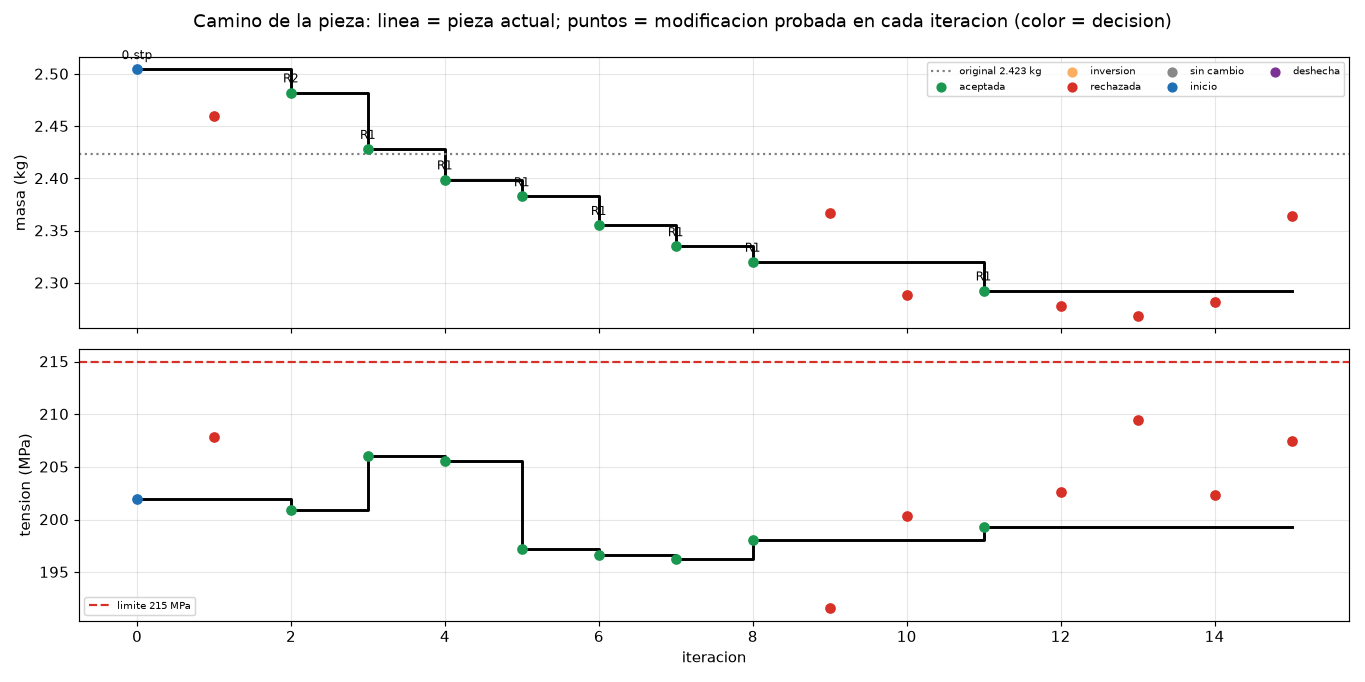
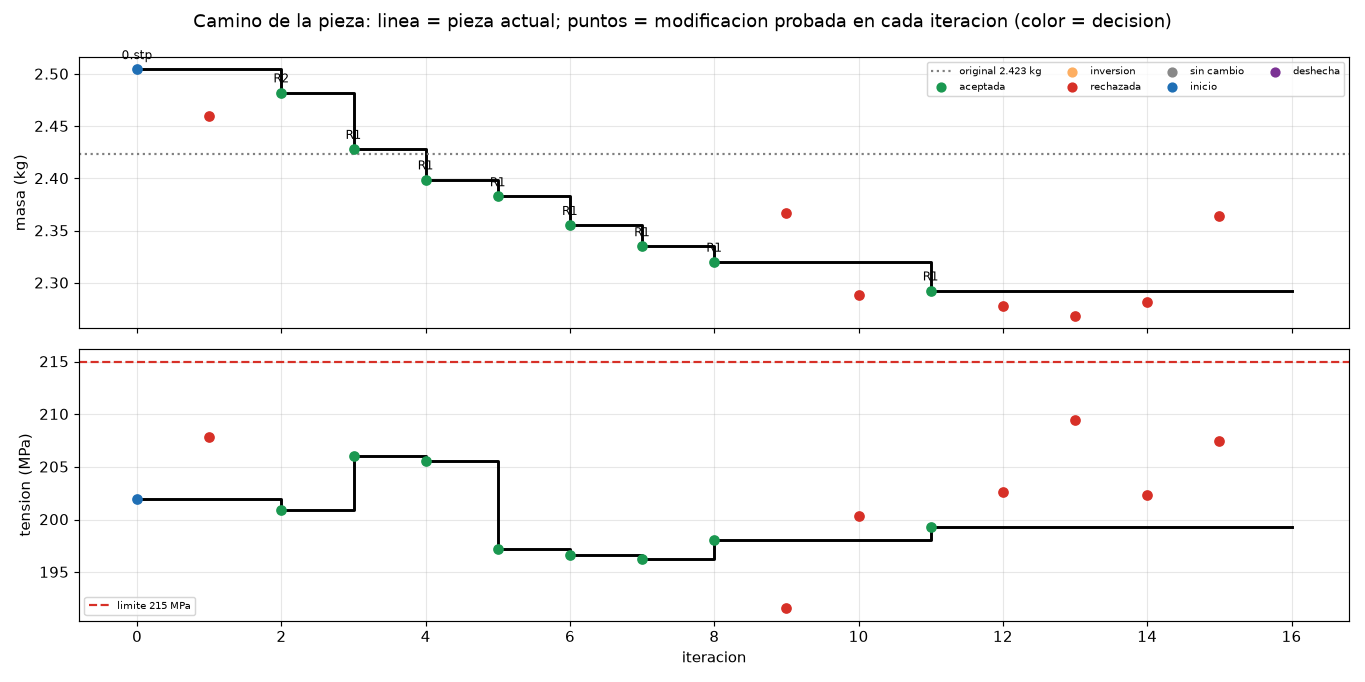
Iteracion 16 [SIN CAMBIO]
Decision: ninguna regla encuentra ya una modificacion posible (no queda material ocioso donde quepa un corte y el pico no admite refuerzo)

diff --git a/runs/opt_42258N/evolucion_interactiva.html b/runs/opt_42258N/evolucion_interactiva.html
@@ -6,6 +6,6 @@
 </head>
 <body>
     <div style="height:800px; width:100%;">                        <script>window.PlotlyConfig = {MathJaxConfig: 'local'};</script>
-        <script charset="utf-8" src="https://cdn.plot.ly/plotly-4.1.1.min.js" integrity="sha256-O24V1F27f8pb0glCkelh3cVHLNiHAJ5gCaVtq2aNch8=" crossorigin="anonymous"></script>                <div id="f991e6a4-b36d-4992-b114-49e5bb6e1498" class="plotly-graph-div" style="height:100%; width:100%;"></div>            <script>                window.PLOTLYENV=window.PLOTLYENV || {};                                if (document.getElementById("f991e6a4-b36d-4992-b114-49e5bb6e1498")) {                    Plotly.newPlot(                        "f991e6a4-b36d-4992-b114-49e5bb6e1498",                        [{"hoverinfo":"text","marker":{"color":"green","size":10},"mode":"markers","name":"aceptada","text":["\u003cb\u003eiteracion 2: ACEPTADA\u003c\u002fb\u003e\u003cbr\u003eR2 rebaje desde arriba hasta z = 9 mm en x 42..62, y -80..-68 mm (esquinas R3) (y su simetrico)\u003cbr\u003emasa 2.4822 kg\u003cbr\u003etension 200.9 MPa\u003cbr\u003ecumple y mejora al mejor (puntuacion 2.5044 -\u003e 2.4822; masa 2.5044 -\u003e 2.4822 kg)","\u003cb\u003eiteracion 3: ACEPTADA\u003c\u002fb\u003e\u003cbr\u003eR1 aligeramiento pasante vertical D16 mm en (49, -56) (y su simetrico)\u003cbr\u003emasa 2.4281 kg\u003cbr\u003etension 206.0 MPa\u003cbr\u003ecumple y mejora al mejor (puntuacion 2.4822 -\u003e 2.4281; masa 2.4822 -\u003e 2.4281 kg)","\u003cb\u003eiteracion 4: ACEPTADA\u003c\u002fb\u003e\u003cbr\u003eR1 aligeramiento pasante vertical D12 mm en (4, -74) (y su simetrico)\u003cbr\u003emasa 2.3989 kg\u003cbr\u003etension 205.6 MPa\u003cbr\u003ecumple y mejora al mejor (puntuacion 2.4281 -\u003e 2.3989; masa 2.4281 -\u003e 2.3989 kg)","\u003cb\u003eiteracion 5: ACEPTADA\u003c\u002fb\u003e\u003cbr\u003eR1 aligeramiento pasante vertical D16 mm en (64, -32) (y su simetrico)\u003cbr\u003emasa 2.3827 kg\u003cbr\u003etension 197.2 MPa\u003cbr\u003ecumple y mejora al mejor (puntuacion 2.3989 -\u003e 2.3827; masa 2.3989 -\u003e 2.3827 kg)","\u003cb\u003eiteracion 6: ACEPTADA\u003c\u002fb\u003e\u003cbr\u003eR1 aligeramiento pasante vertical D16 mm en (-26, -29) (y su simetrico)\u003cbr\u003emasa 2.3552 kg\u003cbr\u003etension 196.6 MPa\u003cbr\u003ecumple y mejora al mejor (puntuacion 2.3827 -\u003e 2.3552; masa 2.3827 -\u003e 2.3552 kg)","\u003cb\u003eiteracion 7: ACEPTADA\u003c\u002fb\u003e\u003cbr\u003eR1 aligeramiento pasante vertical D10 mm en (28, -74) (y su simetrico)\u003cbr\u003emasa 2.3349 kg\u003cbr\u003etension 196.2 MPa\u003cbr\u003ecumple y mejora al mejor (puntuacion 2.3552 -\u003e 2.3349; masa 2.3552 -\u003e 2.3349 kg)","\u003cb\u003eiteracion 8: ACEPTADA\u003c\u002fb\u003e\u003cbr\u003eR1 aligeramiento pasante vertical D10 mm en (19, -74) (y su simetrico)\u003cbr\u003emasa 2.3201 kg\u003cbr\u003etension 198.0 MPa\u003cbr\u003ecumple y mejora al mejor (puntuacion 2.3349 -\u003e 2.3201; masa 2.3349 -\u003e 2.3201 kg)","\u003cb\u003eiteracion 11: ACEPTADA\u003c\u002fb\u003e\u003cbr\u003eR1 aligeramiento pasante vertical D8 mm en (43, -44) (y su simetrico)\u003cbr\u003emasa 2.2925 kg\u003cbr\u003etension 199.3 MPa\u003cbr\u003ecumple y mejora al mejor (puntuacion 2.3201 -\u003e 2.2925; masa 2.3201 -\u003e 2.2925 kg)"],"x":[2,3,4,5,6,7,8,11],"y":[2.4822082530500005,2.42810233215,2.3988696936,2.3827442393000005,2.3552425257500005,2.3348910239500005,2.3200603329500002,2.2925156956000006],"type":"scatter","xaxis":"x","yaxis":"y"},{"hoverinfo":"text","marker":{"color":"green","size":10},"mode":"markers","showlegend":false,"text":["\u003cb\u003eiteracion 2: ACEPTADA\u003c\u002fb\u003e\u003cbr\u003eR2 rebaje desde arriba hasta z = 9 mm en x 42..62, y -80..-68 mm (esquinas R3) (y su simetrico)\u003cbr\u003emasa 2.4822 kg\u003cbr\u003etension 200.9 MPa\u003cbr\u003ecumple y mejora al mejor (puntuacion 2.5044 -\u003e 2.4822; masa 2.5044 -\u003e 2.4822 kg)","\u003cb\u003eiteracion 3: ACEPTADA\u003c\u002fb\u003e\u003cbr\u003eR1 aligeramiento pasante vertical D16 mm en (49, -56) (y su simetrico)\u003cbr\u003emasa 2.4281 kg\u003cbr\u003etension 206.0 MPa\u003cbr\u003ecumple y mejora al mejor (puntuacion 2.4822 -\u003e 2.4281; masa 2.4822 -\u003e 2.4281 kg)","\u003cb\u003eiteracion 4: ACEPTADA\u003c\u002fb\u003e\u003cbr\u003eR1 aligeramiento pasante vertical D12 mm en (4, -74) (y su simetrico)\u003cbr\u003emasa 2.3989 kg\u003cbr\u003etension 205.6 MPa\u003cbr\u003ecumple y mejora al mejor (puntuacion 2.4281 -\u003e 2.3989; masa 2.4281 -\u003e 2.3989 kg)","\u003cb\u003eiteracion 5: ACEPTADA\u003c\u002fb\u003e\u003cbr\u003eR1 aligeramiento pasante vertical D16 mm en (64, -32) (y su simetrico)\u003cbr\u003emasa 2.3827 kg\u003cbr\u003etension 197.2 MPa\u003cbr\u003ecumple y mejora al mejor (puntuacion 2.3989 -\u003e 2.3827; masa 2.3989 -\u003e 2.3827 kg)","\u003cb\u003eiteracion 6: ACEPTADA\u003c\u002fb\u003e\u003cbr\u003eR1 aligeramiento pasante vertical D16 mm en (-26, -29) (y su simetrico)\u003cbr\u003emasa 2.3552 kg\u003cbr\u003etension 196.6 MPa\u003cbr\u003ecumple y mejora al mejor (puntuacion 2.3827 -\u003e 2.3552; masa 2.3827 -\u003e 2.3552 kg)","\u003cb\u003eiteracion 7: ACEPTADA\u003c\u002fb\u003e\u003cbr\u003eR1 aligeramiento pasante vertical D10 mm en (28, -74) (y su simetrico)\u003cbr\u003emasa 2.3349 kg\u003cbr\u003etension 196.2 MPa\u003cbr\u003ecumple y mejora al mejor (puntuacion 2.3552 -\u003e 2.3349; masa 2.3552 -\u003e 2.3349 kg)","\u003cb\u003eiteracion 8: ACEPTADA\u003c\u002fb\u003e\u003cbr\u003eR1 aligeramiento pasante vertical D10 mm en (19, -74) (y su simetrico)\u003cbr\u003emasa 2.3201 kg\u003cbr\u003etension 198.0 MPa\u003cbr\u003ecumple y mejora al mejor (puntuacion 2.3349 -\u003e 2.3201; masa 2.3349 -\u003e 2.3201 kg)","\u003cb\u003eiteracion 11: ACEPTADA\u003c\u002fb\u003e\u003cbr\u003eR1 aligeramiento pasante vertical D8 mm en (43, -44) (y su simetrico)\u003cbr\u003emasa 2.2925 kg\u003cbr\u003etension 199.3 MPa\u003cbr\u003ecumple y mejora al mejor (puntuacion 2.3201 -\u003e 2.2925; masa 2.3201 -\u003e 2.2925 kg)"],"x":[2,3,4,5,6,7,8,11],"y":[200.9276,206.0175,205.5841,197.1883,196.6129,196.215,198.0244,199.3109],"type":"scatter","xaxis":"x2","yaxis":"y2"},{"hoverinfo":"text","marker":{"color":"red","size":10},"mode":"markers","name":"rechazada","text":["\u003cb\u003eiteracion 1: RECHAZADA\u003c\u002fb\u003e\u003cbr\u003eR1 aligeramiento pasante vertical D12 mm en (40, -71) (y su simetrico)\u003cbr\u003emasa 2.4599 kg\u003cbr\u003etension 207.8 MPa\u003cbr\u003eno cumple: 207.8 MPa con la malla normal, que corregidos a malla fina (x1.041) son 216.3 MPa \u003e 215 MPa","\u003cb\u003eiteracion 9: RECHAZADA\u003c\u002fb\u003e\u003cbr\u003eR4 collar de 8 mm en los pernos 3 y 1\u003cbr\u003emasa 2.3665 kg\u003cbr\u003etension 191.6 MPa\u003cbr\u003ecumple pero no mejora al mejor (puntuacion 2.3665 frente a 2.3201)","\u003cb\u003eiteracion 10: RECHAZADA\u003c\u002fb\u003e\u003cbr\u003eR1 aligeramiento pasante vertical D8 mm en (37, -83) (y su simetrico)\u003cbr\u003emasa 2.2879 kg\u003cbr\u003etension 200.3 MPa\u003cbr\u003eno cumple: 200.3 MPa con la malla normal, que corregidos a malla fina (x1.077) son 215.7 MPa \u003e 215 MPa","\u003cb\u003eiteracion 12: RECHAZADA\u003c\u002fb\u003e\u003cbr\u003eR1 aligeramiento pasante vertical D12 mm en (-5, -74) (y su simetrico)\u003cbr\u003emasa 2.2777 kg\u003cbr\u003etension 202.6 MPa\u003cbr\u003eno cumple: 202.6 MPa con la malla normal, que corregidos a malla fina (x1.077) son 218.1 MPa \u003e 215 MPa","\u003cb\u003eiteracion 13: RECHAZADA\u003c\u002fb\u003e\u003cbr\u003eR1 aligeramiento pasante vertical D8 mm en (40, -59) (y su simetrico)\u003cbr\u003emasa 2.2682 kg\u003cbr\u003etension 209.4 MPa\u003cbr\u003eno cumple: 209.4 MPa con la malla normal, que corregidos a malla fina (x1.077) son 225.5 MPa \u003e 215 MPa","\u003cb\u003eiteracion 14: RECHAZADA\u003c\u002fb\u003e\u003cbr\u003eR3 hueco interior 12 x 20 x 8 mm (techo a 45 grados + evacuacion D5) en (12, -42) (y su simetrico)\u003cbr\u003emasa 2.2818 kg\u003cbr\u003etension 202.3 MPa\u003cbr\u003eno cumple: 202.3 MPa con la malla normal, que corregidos a malla fina (x1.077) son 217.9 MPa \u003e 215 MPa","\u003cb\u003eiteracion 15: RECHAZADA\u003c\u002fb\u003e\u003cbr\u003eR4 collar de 9 mm en los pernos 3 y 1\u003cbr\u003emasa 2.3640 kg\u003cbr\u003etension 207.4 MPa\u003cbr\u003eno cumple: 207.4 MPa con la malla normal, que corregidos a malla fina (x1.077) son 223.4 MPa \u003e 215 MPa"],"x":[1,9,10,12,13,14,15],"y":[2.45994150825,2.3664543903000004,2.2879062384,2.2777152820500004,2.2682079351,2.2818148424999998,2.3640136447500004],"type":"scatter","xaxis":"x","yaxis":"y"},{"hoverinfo":"text","marker":{"color":"red","size":10},"mode":"markers","showlegend":false,"text":["\u003cb\u003eiteracion 1: RECHAZADA\u003c\u002fb\u003e\u003cbr\u003eR1 aligeramiento pasante vertical D12 mm en (40, -71) (y su simetrico)\u003cbr\u003emasa 2.4599 kg\u003cbr\u003etension 207.8 MPa\u003cbr\u003eno cumple: 207.8 MPa con la malla normal, que corregidos a malla fina (x1.041) son 216.3 MPa \u003e 215 MPa","\u003cb\u003eiteracion 9: RECHAZADA\u003c\u002fb\u003e\u003cbr\u003eR4 collar de 8 mm en los pernos 3 y 1\u003cbr\u003emasa 2.3665 kg\u003cbr\u003etension 191.6 MPa\u003cbr\u003ecumple pero no mejora al mejor (puntuacion 2.3665 frente a 2.3201)","\u003cb\u003eiteracion 10: RECHAZADA\u003c\u002fb\u003e\u003cbr\u003eR1 aligeramiento pasante vertical D8 mm en (37, -83) (y su simetrico)\u003cbr\u003emasa 2.2879 kg\u003cbr\u003etension 200.3 MPa\u003cbr\u003eno cumple: 200.3 MPa con la malla normal, que corregidos a malla fina (x1.077) son 215.7 MPa \u003e 215 MPa","\u003cb\u003eiteracion 12: RECHAZADA\u003c\u002fb\u003e\u003cbr\u003eR1 aligeramiento pasante vertical D12 mm en (-5, -74) (y su simetrico)\u003cbr\u003emasa 2.2777 kg\u003cbr\u003etension 202.6 MPa\u003cbr\u003eno cumple: 202.6 MPa con la malla normal, que corregidos a malla fina (x1.077) son 218.1 MPa \u003e 215 MPa","\u003cb\u003eiteracion 13: RECHAZADA\u003c\u002fb\u003e\u003cbr\u003eR1 aligeramiento pasante vertical D8 mm en (40, -59) (y su simetrico)\u003cbr\u003emasa 2.2682 kg\u003cbr\u003etension 209.4 MPa\u003cbr\u003eno cumple: 209.4 MPa con la malla normal, que corregidos a malla fina (x1.077) son 225.5 MPa \u003e 215 MPa","\u003cb\u003eiteracion 14: RECHAZADA\u003c\u002fb\u003e\u003cbr\u003eR3 hueco interior 12 x 20 x 8 mm (techo a 45 grados + evacuacion D5) en (12, -42) (y su simetrico)\u003cbr\u003emasa 2.2818 kg\u003cbr\u003etension 202.3 MPa\u003cbr\u003eno cumple: 202.3 MPa con la malla normal, que corregidos a malla fina (x1.077) son 217.9 MPa \u003e 215 MPa","\u003cb\u003eiteracion 15: RECHAZADA\u003c\u002fb\u003e\u003cbr\u003eR4 collar de 9 mm en los pernos 3 y 1\u003cbr\u003emasa 2.3640 kg\u003cbr\u003etension 207.4 MPa\u003cbr\u003eno cumple: 207.4 MPa con la malla normal, que corregidos a malla fina (x1.077) son 223.4 MPa \u003e 215 MPa"],"x":[1,9,10,12,13,14,15],"y":[207.8416,191.5745,200.2949,202.5769,209.4124,202.3304,207.448],"type":"scatter","xaxis":"x2","yaxis":"y2"},{"hoverinfo":"text","marker":{"color":"blue","size":10},"mode":"markers","name":"inicio","text":["\u003cb\u003eiteracion 0: INICIO\u003c\u002fb\u003e\u003cbr\u003e pieza SIMETRICA de partida: original + collares de 6 mm en los pernos 1 y 3 (pareja simetrica)\u003cbr\u003emasa 2.5044 kg\u003cbr\u003etension 201.9 MPa\u003cbr\u003ecumple: se sigue quitando material donde no trabaja"],"x":[0],"y":[2.5044295071000002],"type":"scatter","xaxis":"x","yaxis":"y"},{"hoverinfo":"text","marker":{"color":"blue","size":10},"mode":"markers","showlegend":false,"text":["\u003cb\u003eiteracion 0: INICIO\u003c\u002fb\u003e\u003cbr\u003e pieza SIMETRICA de partida: original + collares de 6 mm en los pernos 1 y 3 (pareja simetrica)\u003cbr\u003emasa 2.5044 kg\u003cbr\u003etension 201.9 MPa\u003cbr\u003ecumple: se sigue quitando material donde no trabaja"],"x":[0],"y":[201.9075],"type":"scatter","xaxis":"x2","yaxis":"y2"},{"line":{"color":"black","shape":"hv"},"mode":"lines","name":"pieza actual","x":[0,1,2,3,4,5,6,7,8,9,10,11,12,13,14,15],"y":[2.5044295071000002,2.5044295071000002,2.4822082530500005,2.42810233215,2.3988696936,2.3827442393000005,2.3552425257500005,2.3348910239500005,2.3200603329500002,2.3200603329500002,2.3200603329500002,2.2925156956000006,2.2925156956000006,2.2925156956000006,2.2925156956000006,2.2925156956000006],"type":"scatter","xaxis":"x","yaxis":"y"}],                        {"template":{"data":{"barpolar":[{"marker":{"line":{"color":"white","width":0.5},"pattern":{"fillmode":"overlay","size":10,"solidity":0.2}},"type":"barpolar"}],"bar":[{"error_x":{"color":"#2a3f5f"},"error_y":{"color":"#2a3f5f"},"marker":{"line":{"color":"white","width":0.5},"pattern":{"fillmode":"overlay","size":10,"solidity":0.2}},"type":"bar"}],"carpet":[{"aaxis":{"endlinecolor":"#2a3f5f","gridcolor":"#C8D4E3","linecolor":"#C8D4E3","minorgridcolor":"#C8D4E3","startlinecolor":"#2a3f5f"},"baxis":{"endlinecolor":"#2a3f5f","gridcolor":"#C8D4E3","linecolor":"#C8D4E3","minorgridcolor":"#C8D4E3","startlinecolor":"#2a3f5f"},"type":"carpet"}],"choropleth":[{"colorbar":{"outlinewidth":0,"ticks":""},"type":"choropleth"}],"contourcarpet":[{"colorbar":{"outlinewidth":0,"ticks":""},"type":"contourcarpet"}],"contour":[{"colorbar":{"outlinewidth":0,"ticks":""},"colorscale":[[0.0,"#0d0887"],[0.1111111111111111,"#46039f"],[0.2222222222222222,"#7201a8"],[0.3333333333333333,"#9c179e"],[0.4444444444444444,"#bd3786"],[0.5555555555555556,"#d8576b"],[0.6666666666666666,"#ed7953"],[0.7777777777777778,"#fb9f3a"],[0.8888888888888888,"#fdca26"],[1.0,"#f0f921"]],"type":"contour"}],"heatmap":[{"colorbar":{"outlinewidth":0,"ticks":""},"colorscale":[[0.0,"#0d0887"],[0.1111111111111111,"#46039f"],[0.2222222222222222,"#7201a8"],[0.3333333333333333,"#9c179e"],[0.4444444444444444,"#bd3786"],[0.5555555555555556,"#d8576b"],[0.6666666666666666,"#ed7953"],[0.7777777777777778,"#fb9f3a"],[0.8888888888888888,"#fdca26"],[1.0,"#f0f921"]],"type":"heatmap"}],"histogram2dcontour":[{"colorbar":{"outlinewidth":0,"ticks":""},"colorscale":[[0.0,"#0d0887"],[0.1111111111111111,"#46039f"],[0.2222222222222222,"#7201a8"],[0.3333333333333333,"#9c179e"],[0.4444444444444444,"#bd3786"],[0.5555555555555556,"#d8576b"],[0.6666666666666666,"#ed7953"],[0.7777777777777778,"#fb9f3a"],[0.8888888888888888,"#fdca26"],[1.0,"#f0f921"]],"type":"histogram2dcontour"}],"histogram2d":[{"colorbar":{"outlinewidth":0,"ticks":""},"colorscale":[[0.0,"#0d0887"],[0.1111111111111111,"#46039f"],[0.2222222222222222,"#7201a8"],[0.3333333333333333,"#9c179e"],[0.4444444444444444,"#bd3786"],[0.5555555555555556,"#d8576b"],[0.6666666666666666,"#ed7953"],[0.7777777777777778,"#fb9f3a"],[0.8888888888888888,"#fdca26"],[1.0,"#f0f921"]],"type":"histogram2d"}],"histogram":[{"marker":{"pattern":{"fillmode":"overlay","size":10,"solidity":0.2}},"type":"histogram"}],"mesh3d":[{"colorbar":{"outlinewidth":0,"ticks":""},"type":"mesh3d"}],"parcoords":[{"line":{"colorbar":{"outlinewidth":0,"ticks":""}},"type":"parcoords"}],"pie":[{"automargin":true,"type":"pie"}],"scatter3d":[{"line":{"colorbar":{"outlinewidth":0,"ticks":""}},"marker":{"colorbar":{"outlinewidth":0,"ticks":""}},"type":"scatter3d"}],"scattercarpet":[{"marker":{"colorbar":{"outlinewidth":0,"ticks":""}},"type":"scattercarpet"}],"scattergeo":[{"marker":{"colorbar":{"outlinewidth":0,"ticks":""}},"type":"scattergeo"}],"scattergl":[{"marker":{"colorbar":{"outlinewidth":0,"ticks":""}},"type":"scattergl"}],"scattermap":[{"marker":{"colorbar":{"outlinewidth":0,"ticks":""}},"type":"scattermap"}],"scatterpolargl":[{"marker":{"colorbar":{"outlinewidth":0,"ticks":""}},"type":"scatterpolargl"}],"scatterpolar":[{"marker":{"colorbar":{"outlinewidth":0,"ticks":""}},"type":"scatterpolar"}],"scatter":[{"fillpattern":{"fillmode":"overlay","size":10,"solidity":0.2},"type":"scatter"}],"scatterternary":[{"marker":{"colorbar":{"outlinewidth":0,"ticks":""}},"type":"scatterternary"}],"surface":[{"colorbar":{"outlinewidth":0,"ticks":""},"colorscale":[[0.0,"#0d0887"],[0.1111111111111111,"#46039f"],[0.2222222222222222,"#7201a8"],[0.3333333333333333,"#9c179e"],[0.4444444444444444,"#bd3786"],[0.5555555555555556,"#d8576b"],[0.6666666666666666,"#ed7953"],[0.7777777777777778,"#fb9f3a"],[0.8888888888888888,"#fdca26"],[1.0,"#f0f921"]],"type":"surface"}],"table":[{"cells":{"fill":{"color":"#EBF0F8"},"line":{"color":"white"}},"header":{"fill":{"color":"#C8D4E3"},"line":{"color":"white"}},"type":"table"}]},"layout":{"annotationdefaults":{"arrowcolor":"#2a3f5f","arrowhead":0,"arrowwidth":1},"autotypenumbers":"strict","coloraxis":{"colorbar":{"outlinewidth":0,"ticks":""}},"colorscale":{"diverging":[[0,"#8e0152"],[0.1,"#c51b7d"],[0.2,"#de77ae"],[0.3,"#f1b6da"],[0.4,"#fde0ef"],[0.5,"#f7f7f7"],[0.6,"#e6f5d0"],[0.7,"#b8e186"],[0.8,"#7fbc41"],[0.9,"#4d9221"],[1,"#276419"]],"sequential":[[0.0,"#0d0887"],[0.1111111111111111,"#46039f"],[0.2222222222222222,"#7201a8"],[0.3333333333333333,"#9c179e"],[0.4444444444444444,"#bd3786"],[0.5555555555555556,"#d8576b"],[0.6666666666666666,"#ed7953"],[0.7777777777777778,"#fb9f3a"],[0.8888888888888888,"#fdca26"],[1.0,"#f0f921"]],"sequentialminus":[[0.0,"#0d0887"],[0.1111111111111111,"#46039f"],[0.2222222222222222,"#7201a8"],[0.3333333333333333,"#9c179e"],[0.4444444444444444,"#bd3786"],[0.5555555555555556,"#d8576b"],[0.6666666666666666,"#ed7953"],[0.7777777777777778,"#fb9f3a"],[0.8888888888888888,"#fdca26"],[1.0,"#f0f921"]]},"colorway":["#636efa","#EF553B","#00cc96","#ab63fa","#FFA15A","#19d3f3","#FF6692","#B6E880","#FF97FF","#FECB52"],"font":{"color":"#2a3f5f"},"geo":{"bgcolor":"white","lakecolor":"white","landcolor":"white","showlakes":true,"showland":true,"subunitcolor":"#C8D4E3"},"hoverlabel":{"align":"left"},"hovermode":"closest","paper_bgcolor":"white","plot_bgcolor":"white","polar":{"angularaxis":{"gridcolor":"#EBF0F8","linecolor":"#EBF0F8","ticks":""},"bgcolor":"white","radialaxis":{"gridcolor":"#EBF0F8","linecolor":"#EBF0F8","ticks":""}},"scene":{"xaxis":{"backgroundcolor":"white","gridcolor":"#DFE8F3","gridwidth":2,"linecolor":"#EBF0F8","showbackground":true,"ticks":"","zerolinecolor":"#EBF0F8"},"yaxis":{"backgroundcolor":"white","gridcolor":"#DFE8F3","gridwidth":2,"linecolor":"#EBF0F8","showbackground":true,"ticks":"","zerolinecolor":"#EBF0F8"},"zaxis":{"backgroundcolor":"white","gridcolor":"#DFE8F3","gridwidth":2,"linecolor":"#EBF0F8","showbackground":true,"ticks":"","zerolinecolor":"#EBF0F8"}},"shapedefaults":{"line":{"color":"#2a3f5f"}},"ternary":{"aaxis":{"gridcolor":"#DFE8F3","linecolor":"#A2B1C6","ticks":""},"baxis":{"gridcolor":"#DFE8F3","linecolor":"#A2B1C6","ticks":""},"bgcolor":"white","caxis":{"gridcolor":"#DFE8F3","linecolor":"#A2B1C6","ticks":""}},"title":{"x":0.05},"xaxis":{"automargin":true,"gridcolor":"#EBF0F8","linecolor":"#EBF0F8","ticks":"","title":{"standoff":15},"zerolinecolor":"#EBF0F8","zerolinewidth":2},"yaxis":{"automargin":true,"gridcolor":"#EBF0F8","linecolor":"#EBF0F8","ticks":"","title":{"standoff":15},"zerolinecolor":"#EBF0F8","zerolinewidth":2}}},"xaxis":{"anchor":"y","domain":[0.0,1.0],"matches":"x2","showticklabels":false},"yaxis":{"anchor":"x","domain":[0.625,1.0]},"xaxis2":{"anchor":"y2","domain":[0.0,1.0]},"yaxis2":{"anchor":"x2","domain":[0.0,0.375]},"annotations":[{"font":{"size":16},"showarrow":false,"text":"masa (kg)","x":0.5,"xanchor":"center","xref":"paper","y":1.0,"yanchor":"bottom","yref":"paper"},{"font":{"size":16},"showarrow":false,"text":"tension (MPa)","x":0.5,"xanchor":"center","xref":"paper","y":0.375,"yanchor":"bottom","yref":"paper"}],"shapes":[{"line":{"color":"red","dash":"dash"},"type":"line","x0":0,"x1":1,"xref":"x2 domain","y0":215.0,"y1":215.0,"yref":"y2"}],"title":{"text":"Evolucion de la pieza (pasar el raton por cada punto)"},"height":800},                        {"responsive": true}                    )                };            </script>        </div>
+        <script charset="utf-8" src="https://cdn.plot.ly/plotly-4.1.1.min.js" integrity="sha256-O24V1F27f8pb0glCkelh3cVHLNiHAJ5gCaVtq2aNch8=" crossorigin="anonymous"></script>                <div id="86c7c2a3-102c-4851-ad19-efdd606d9b2b" class="plotly-graph-div" style="height:100%; width:100%;"></div>            <script>                window.PLOTLYENV=window.PLOTLYENV || {};                                if (document.getElementById("86c7c2a3-102c-4851-ad19-efdd606d9b2b")) {                    Plotly.newPlot(                        "86c7c2a3-102c-4851-ad19-efdd606d9b2b",                        [{"hoverinfo":"text","marker":{"color":"green","size":10},"mode":"markers","name":"aceptada","text":["\u003cb\u003eiteracion 2: ACEPTADA\u003c\u002fb\u003e\u003cbr\u003eR2 rebaje desde arriba hasta z = 9 mm en x 42..62, y -80..-68 mm (esquinas R3) (y su simetrico)\u003cbr\u003emasa 2.4822 kg\u003cbr\u003etension 200.9 MPa\u003cbr\u003ecumple y mejora al mejor (puntuacion 2.5044 -\u003e 2.4822; masa 2.5044 -\u003e 2.4822 kg)","\u003cb\u003eiteracion 3: ACEPTADA\u003c\u002fb\u003e\u003cbr\u003eR1 aligeramiento pasante vertical D16 mm en (49, -56) (y su simetrico)\u003cbr\u003emasa 2.4281 kg\u003cbr\u003etension 206.0 MPa\u003cbr\u003ecumple y mejora al mejor (puntuacion 2.4822 -\u003e 2.4281; masa 2.4822 -\u003e 2.4281 kg)","\u003cb\u003eiteracion 4: ACEPTADA\u003c\u002fb\u003e\u003cbr\u003eR1 aligeramiento pasante vertical D12 mm en (4, -74) (y su simetrico)\u003cbr\u003emasa 2.3989 kg\u003cbr\u003etension 205.6 MPa\u003cbr\u003ecumple y mejora al mejor (puntuacion 2.4281 -\u003e 2.3989; masa 2.4281 -\u003e 2.3989 kg)","\u003cb\u003eiteracion 5: ACEPTADA\u003c\u002fb\u003e\u003cbr\u003eR1 aligeramiento pasante vertical D16 mm en (64, -32) (y su simetrico)\u003cbr\u003emasa 2.3827 kg\u003cbr\u003etension 197.2 MPa\u003cbr\u003ecumple y mejora al mejor (puntuacion 2.3989 -\u003e 2.3827; masa 2.3989 -\u003e 2.3827 kg)","\u003cb\u003eiteracion 6: ACEPTADA\u003c\u002fb\u003e\u003cbr\u003eR1 aligeramiento pasante vertical D16 mm en (-26, -29) (y su simetrico)\u003cbr\u003emasa 2.3552 kg\u003cbr\u003etension 196.6 MPa\u003cbr\u003ecumple y mejora al mejor (puntuacion 2.3827 -\u003e 2.3552; masa 2.3827 -\u003e 2.3552 kg)","\u003cb\u003eiteracion 7: ACEPTADA\u003c\u002fb\u003e\u003cbr\u003eR1 aligeramiento pasante vertical D10 mm en (28, -74) (y su simetrico)\u003cbr\u003emasa 2.3349 kg\u003cbr\u003etension 196.2 MPa\u003cbr\u003ecumple y mejora al mejor (puntuacion 2.3552 -\u003e 2.3349; masa 2.3552 -\u003e 2.3349 kg)","\u003cb\u003eiteracion 8: ACEPTADA\u003c\u002fb\u003e\u003cbr\u003eR1 aligeramiento pasante vertical D10 mm en (19, -74) (y su simetrico)\u003cbr\u003emasa 2.3201 kg\u003cbr\u003etension 198.0 MPa\u003cbr\u003ecumple y mejora al mejor (puntuacion 2.3349 -\u003e 2.3201; masa 2.3349 -\u003e 2.3201 kg)","\u003cb\u003eiteracion 11: ACEPTADA\u003c\u002fb\u003e\u003cbr\u003eR1 aligeramiento pasante vertical D8 mm en (43, -44) (y su simetrico)\u003cbr\u003emasa 2.2925 kg\u003cbr\u003etension 199.3 MPa\u003cbr\u003ecumple y mejora al mejor (puntuacion 2.3201 -\u003e 2.2925; masa 2.3201 -\u003e 2.2925 kg)"],"x":[2,3,4,5,6,7,8,11],"y":[2.4822082530500005,2.42810233215,2.3988696936,2.3827442393000005,2.3552425257500005,2.3348910239500005,2.3200603329500002,2.2925156956000006],"type":"scatter","xaxis":"x","yaxis":"y"},{"hoverinfo":"text","marker":{"color":"green","size":10},"mode":"markers","showlegend":false,"text":["\u003cb\u003eiteracion 2: ACEPTADA\u003c\u002fb\u003e\u003cbr\u003eR2 rebaje desde arriba hasta z = 9 mm en x 42..62, y -80..-68 mm (esquinas R3) (y su simetrico)\u003cbr\u003emasa 2.4822 kg\u003cbr\u003etension 200.9 MPa\u003cbr\u003ecumple y mejora al mejor (puntuacion 2.5044 -\u003e 2.4822; masa 2.5044 -\u003e 2.4822 kg)","\u003cb\u003eiteracion 3: ACEPTADA\u003c\u002fb\u003e\u003cbr\u003eR1 aligeramiento pasante vertical D16 mm en (49, -56) (y su simetrico)\u003cbr\u003emasa 2.4281 kg\u003cbr\u003etension 206.0 MPa\u003cbr\u003ecumple y mejora al mejor (puntuacion 2.4822 -\u003e 2.4281; masa 2.4822 -\u003e 2.4281 kg)","\u003cb\u003eiteracion 4: ACEPTADA\u003c\u002fb\u003e\u003cbr\u003eR1 aligeramiento pasante vertical D12 mm en (4, -74) (y su simetrico)\u003cbr\u003emasa 2.3989 kg\u003cbr\u003etension 205.6 MPa\u003cbr\u003ecumple y mejora al mejor (puntuacion 2.4281 -\u003e 2.3989; masa 2.4281 -\u003e 2.3989 kg)","\u003cb\u003eiteracion 5: ACEPTADA\u003c\u002fb\u003e\u003cbr\u003eR1 aligeramiento pasante vertical D16 mm en (64, -32) (y su simetrico)\u003cbr\u003emasa 2.3827 kg\u003cbr\u003etension 197.2 MPa\u003cbr\u003ecumple y mejora al mejor (puntuacion 2.3989 -\u003e 2.3827; masa 2.3989 -\u003e 2.3827 kg)","\u003cb\u003eiteracion 6: ACEPTADA\u003c\u002fb\u003e\u003cbr\u003eR1 aligeramiento pasante vertical D16 mm en (-26, -29) (y su simetrico)\u003cbr\u003emasa 2.3552 kg\u003cbr\u003etension 196.6 MPa\u003cbr\u003ecumple y mejora al mejor (puntuacion 2.3827 -\u003e 2.3552; masa 2.3827 -\u003e 2.3552 kg)","\u003cb\u003eiteracion 7: ACEPTADA\u003c\u002fb\u003e\u003cbr\u003eR1 aligeramiento pasante vertical D10 mm en (28, -74) (y su simetrico)\u003cbr\u003emasa 2.3349 kg\u003cbr\u003etension 196.2 MPa\u003cbr\u003ecumple y mejora al mejor (puntuacion 2.3552 -\u003e 2.3349; masa 2.3552 -\u003e 2.3349 kg)","\u003cb\u003eiteracion 8: ACEPTADA\u003c\u002fb\u003e\u003cbr\u003eR1 aligeramiento pasante vertical D10 mm en (19, -74) (y su simetrico)\u003cbr\u003emasa 2.3201 kg\u003cbr\u003etension 198.0 MPa\u003cbr\u003ecumple y mejora al mejor (puntuacion 2.3349 -\u003e 2.3201; masa 2.3349 -\u003e 2.3201 kg)","\u003cb\u003eiteracion 11: ACEPTADA\u003c\u002fb\u003e\u003cbr\u003eR1 aligeramiento pasante vertical D8 mm en (43, -44) (y su simetrico)\u003cbr\u003emasa 2.2925 kg\u003cbr\u003etension 199.3 MPa\u003cbr\u003ecumple y mejora al mejor (puntuacion 2.3201 -\u003e 2.2925; masa 2.3201 -\u003e 2.2925 kg)"],"x":[2,3,4,5,6,7,8,11],"y":[200.9276,206.0175,205.5841,197.1883,196.6129,196.215,198.0244,199.3109],"type":"scatter","xaxis":"x2","yaxis":"y2"},{"hoverinfo":"text","marker":{"color":"red","size":10},"mode":"markers","name":"rechazada","text":["\u003cb\u003eiteracion 1: RECHAZADA\u003c\u002fb\u003e\u003cbr\u003eR1 aligeramiento pasante vertical D12 mm en (40, -71) (y su simetrico)\u003cbr\u003emasa 2.4599 kg\u003cbr\u003etension 207.8 MPa\u003cbr\u003eno cumple: 207.8 MPa con la malla normal, que corregidos a malla fina (x1.041) son 216.3 MPa \u003e 215 MPa","\u003cb\u003eiteracion 9: RECHAZADA\u003c\u002fb\u003e\u003cbr\u003eR4 collar de 8 mm en los pernos 3 y 1\u003cbr\u003emasa 2.3665 kg\u003cbr\u003etension 191.6 MPa\u003cbr\u003ecumple pero no mejora al mejor (puntuacion 2.3665 frente a 2.3201)","\u003cb\u003eiteracion 10: RECHAZADA\u003c\u002fb\u003e\u003cbr\u003eR1 aligeramiento pasante vertical D8 mm en (37, -83) (y su simetrico)\u003cbr\u003emasa 2.2879 kg\u003cbr\u003etension 200.3 MPa\u003cbr\u003eno cumple: 200.3 MPa con la malla normal, que corregidos a malla fina (x1.077) son 215.7 MPa \u003e 215 MPa","\u003cb\u003eiteracion 12: RECHAZADA\u003c\u002fb\u003e\u003cbr\u003eR1 aligeramiento pasante vertical D12 mm en (-5, -74) (y su simetrico)\u003cbr\u003emasa 2.2777 kg\u003cbr\u003etension 202.6 MPa\u003cbr\u003eno cumple: 202.6 MPa con la malla normal, que corregidos a malla fina (x1.077) son 218.1 MPa \u003e 215 MPa","\u003cb\u003eiteracion 13: RECHAZADA\u003c\u002fb\u003e\u003cbr\u003eR1 aligeramiento pasante vertical D8 mm en (40, -59) (y su simetrico)\u003cbr\u003emasa 2.2682 kg\u003cbr\u003etension 209.4 MPa\u003cbr\u003eno cumple: 209.4 MPa con la malla normal, que corregidos a malla fina (x1.077) son 225.5 MPa \u003e 215 MPa","\u003cb\u003eiteracion 14: RECHAZADA\u003c\u002fb\u003e\u003cbr\u003eR3 hueco interior 12 x 20 x 8 mm (techo a 45 grados + evacuacion D5) en (12, -42) (y su simetrico)\u003cbr\u003emasa 2.2818 kg\u003cbr\u003etension 202.3 MPa\u003cbr\u003eno cumple: 202.3 MPa con la malla normal, que corregidos a malla fina (x1.077) son 217.9 MPa \u003e 215 MPa","\u003cb\u003eiteracion 15: RECHAZADA\u003c\u002fb\u003e\u003cbr\u003eR4 collar de 9 mm en los pernos 3 y 1\u003cbr\u003emasa 2.3640 kg\u003cbr\u003etension 207.4 MPa\u003cbr\u003eno cumple: 207.4 MPa con la malla normal, que corregidos a malla fina (x1.077) son 223.4 MPa \u003e 215 MPa"],"x":[1,9,10,12,13,14,15],"y":[2.45994150825,2.3664543903000004,2.2879062384,2.2777152820500004,2.2682079351,2.2818148424999998,2.3640136447500004],"type":"scatter","xaxis":"x","yaxis":"y"},{"hoverinfo":"text","marker":{"color":"red","size":10},"mode":"markers","showlegend":false,"text":["\u003cb\u003eiteracion 1: RECHAZADA\u003c\u002fb\u003e\u003cbr\u003eR1 aligeramiento pasante vertical D12 mm en (40, -71) (y su simetrico)\u003cbr\u003emasa 2.4599 kg\u003cbr\u003etension 207.8 MPa\u003cbr\u003eno cumple: 207.8 MPa con la malla normal, que corregidos a malla fina (x1.041) son 216.3 MPa \u003e 215 MPa","\u003cb\u003eiteracion 9: RECHAZADA\u003c\u002fb\u003e\u003cbr\u003eR4 collar de 8 mm en los pernos 3 y 1\u003cbr\u003emasa 2.3665 kg\u003cbr\u003etension 191.6 MPa\u003cbr\u003ecumple pero no mejora al mejor (puntuacion 2.3665 frente a 2.3201)","\u003cb\u003eiteracion 10: RECHAZADA\u003c\u002fb\u003e\u003cbr\u003eR1 aligeramiento pasante vertical D8 mm en (37, -83) (y su simetrico)\u003cbr\u003emasa 2.2879 kg\u003cbr\u003etension 200.3 MPa\u003cbr\u003eno cumple: 200.3 MPa con la malla normal, que corregidos a malla fina (x1.077) son 215.7 MPa \u003e 215 MPa","\u003cb\u003eiteracion 12: RECHAZADA\u003c\u002fb\u003e\u003cbr\u003eR1 aligeramiento pasante vertical D12 mm en (-5, -74) (y su simetrico)\u003cbr\u003emasa 2.2777 kg\u003cbr\u003etension 202.6 MPa\u003cbr\u003eno cumple: 202.6 MPa con la malla normal, que corregidos a malla fina (x1.077) son 218.1 MPa \u003e 215 MPa","\u003cb\u003eiteracion 13: RECHAZADA\u003c\u002fb\u003e\u003cbr\u003eR1 aligeramiento pasante vertical D8 mm en (40, -59) (y su simetrico)\u003cbr\u003emasa 2.2682 kg\u003cbr\u003etension 209.4 MPa\u003cbr\u003eno cumple: 209.4 MPa con la malla normal, que corregidos a malla fina (x1.077) son 225.5 MPa \u003e 215 MPa","\u003cb\u003eiteracion 14: RECHAZADA\u003c\u002fb\u003e\u003cbr\u003eR3 hueco interior 12 x 20 x 8 mm (techo a 45 grados + evacuacion D5) en (12, -42) (y su simetrico)\u003cbr\u003emasa 2.2818 kg\u003cbr\u003etension 202.3 MPa\u003cbr\u003eno cumple: 202.3 MPa con la malla normal, que corregidos a malla fina (x1.077) son 217.9 MPa \u003e 215 MPa","\u003cb\u003eiteracion 15: RECHAZADA\u003c\u002fb\u003e\u003cbr\u003eR4 collar de 9 mm en los pernos 3 y 1\u003cbr\u003emasa 2.3640 kg\u003cbr\u003etension 207.4 MPa\u003cbr\u003eno cumple: 207.4 MPa con la malla normal, que corregidos a malla fina (x1.077) son 223.4 MPa \u003e 215 MPa"],"x":[1,9,10,12,13,14,15],"y":[207.8416,191.5745,200.2949,202.5769,209.4124,202.3304,207.448],"type":"scatter","xaxis":"x2","yaxis":"y2"},{"hoverinfo":"text","marker":{"color":"blue","size":10},"mode":"markers","name":"inicio","text":["\u003cb\u003eiteracion 0: INICIO\u003c\u002fb\u003e\u003cbr\u003e pieza SIMETRICA de partida: original + collares de 6 mm en los pernos 1 y 3 (pareja simetrica)\u003cbr\u003emasa 2.5044 kg\u003cbr\u003etension 201.9 MPa\u003cbr\u003ecumple: se sigue quitando material donde no trabaja"],"x":[0],"y":[2.5044295071000002],"type":"scatter","xaxis":"x","yaxis":"y"},{"hoverinfo":"text","marker":{"color":"blue","size":10},"mode":"markers","showlegend":false,"text":["\u003cb\u003eiteracion 0: INICIO\u003c\u002fb\u003e\u003cbr\u003e pieza SIMETRICA de partida: original + collares de 6 mm en los pernos 1 y 3 (pareja simetrica)\u003cbr\u003emasa 2.5044 kg\u003cbr\u003etension 201.9 MPa\u003cbr\u003ecumple: se sigue quitando material donde no trabaja"],"x":[0],"y":[201.9075],"type":"scatter","xaxis":"x2","yaxis":"y2"},{"line":{"color":"black","shape":"hv"},"mode":"lines","name":"pieza actual","x":[0,1,2,3,4,5,6,7,8,9,10,11,12,13,14,15,16],"y":[2.5044295071000002,2.5044295071000002,2.4822082530500005,2.42810233215,2.3988696936,2.3827442393000005,2.3552425257500005,2.3348910239500005,2.3200603329500002,2.3200603329500002,2.3200603329500002,2.2925156956000006,2.2925156956000006,2.2925156956000006,2.2925156956000006,2.2925156956000006,2.2925156956000006],"type":"scatter","xaxis":"x","yaxis":"y"}],                        {"template":{"data":{"barpolar":[{"marker":{"line":{"color":"white","width":0.5},"pattern":{"fillmode":"overlay","size":10,"solidity":0.2}},"type":"barpolar"}],"bar":[{"error_x":{"color":"#2a3f5f"},"error_y":{"color":"#2a3f5f"},"marker":{"line":{"color":"white","width":0.5},"pattern":{"fillmode":"overlay","size":10,"solidity":0.2}},"type":"bar"}],"carpet":[{"aaxis":{"endlinecolor":"#2a3f5f","gridcolor":"#C8D4E3","linecolor":"#C8D4E3","minorgridcolor":"#C8D4E3","startlinecolor":"#2a3f5f"},"baxis":{"endlinecolor":"#2a3f5f","gridcolor":"#C8D4E3","linecolor":"#C8D4E3","minorgridcolor":"#C8D4E3","startlinecolor":"#2a3f5f"},"type":"carpet"}],"choropleth":[{"colorbar":{"outlinewidth":0,"ticks":""},"type":"choropleth"}],"contourcarpet":[{"colorbar":{"outlinewidth":0,"ticks":""},"type":"contourcarpet"}],"contour":[{"colorbar":{"outlinewidth":0,"ticks":""},"colorscale":[[0.0,"#0d0887"],[0.1111111111111111,"#46039f"],[0.2222222222222222,"#7201a8"],[0.3333333333333333,"#9c179e"],[0.4444444444444444,"#bd3786"],[0.5555555555555556,"#d8576b"],[0.6666666666666666,"#ed7953"],[0.7777777777777778,"#fb9f3a"],[0.8888888888888888,"#fdca26"],[1.0,"#f0f921"]],"type":"contour"}],"heatmap":[{"colorbar":{"outlinewidth":0,"ticks":""},"colorscale":[[0.0,"#0d0887"],[0.1111111111111111,"#46039f"],[0.2222222222222222,"#7201a8"],[0.3333333333333333,"#9c179e"],[0.4444444444444444,"#bd3786"],[0.5555555555555556,"#d8576b"],[0.6666666666666666,"#ed7953"],[0.7777777777777778,"#fb9f3a"],[0.8888888888888888,"#fdca26"],[1.0,"#f0f921"]],"type":"heatmap"}],"histogram2dcontour":[{"colorbar":{"outlinewidth":0,"ticks":""},"colorscale":[[0.0,"#0d0887"],[0.1111111111111111,"#46039f"],[0.2222222222222222,"#7201a8"],[0.3333333333333333,"#9c179e"],[0.4444444444444444,"#bd3786"],[0.5555555555555556,"#d8576b"],[0.6666666666666666,"#ed7953"],[0.7777777777777778,"#fb9f3a"],[0.8888888888888888,"#fdca26"],[1.0,"#f0f921"]],"type":"histogram2dcontour"}],"histogram2d":[{"colorbar":{"outlinewidth":0,"ticks":""},"colorscale":[[0.0,"#0d0887"],[0.1111111111111111,"#46039f"],[0.2222222222222222,"#7201a8"],[0.3333333333333333,"#9c179e"],[0.4444444444444444,"#bd3786"],[0.5555555555555556,"#d8576b"],[0.6666666666666666,"#ed7953"],[0.7777777777777778,"#fb9f3a"],[0.8888888888888888,"#fdca26"],[1.0,"#f0f921"]],"type":"histogram2d"}],"histogram":[{"marker":{"pattern":{"fillmode":"overlay","size":10,"solidity":0.2}},"type":"histogram"}],"mesh3d":[{"colorbar":{"outlinewidth":0,"ticks":""},"type":"mesh3d"}],"parcoords":[{"line":{"colorbar":{"outlinewidth":0,"ticks":""}},"type":"parcoords"}],"pie":[{"automargin":true,"type":"pie"}],"scatter3d":[{"line":{"colorbar":{"outlinewidth":0,"ticks":""}},"marker":{"colorbar":{"outlinewidth":0,"ticks":""}},"type":"scatter3d"}],"scattercarpet":[{"marker":{"colorbar":{"outlinewidth":0,"ticks":""}},"type":"scattercarpet"}],"scattergeo":[{"marker":{"colorbar":{"outlinewidth":0,"ticks":""}},"type":"scattergeo"}],"scattergl":[{"marker":{"colorbar":{"outlinewidth":0,"ticks":""}},"type":"scattergl"}],"scattermap":[{"marker":{"colorbar":{"outlinewidth":0,"ticks":""}},"type":"scattermap"}],"scatterpolargl":[{"marker":{"colorbar":{"outlinewidth":0,"ticks":""}},"type":"scatterpolargl"}],"scatterpolar":[{"marker":{"colorbar":{"outlinewidth":0,"ticks":""}},"type":"scatterpolar"}],"scatter":[{"fillpattern":{"fillmode":"overlay","size":10,"solidity":0.2},"type":"scatter"}],"scatterternary":[{"marker":{"colorbar":{"outlinewidth":0,"ticks":""}},"type":"scatterternary"}],"surface":[{"colorbar":{"outlinewidth":0,"ticks":""},"colorscale":[[0.0,"#0d0887"],[0.1111111111111111,"#46039f"],[0.2222222222222222,"#7201a8"],[0.3333333333333333,"#9c179e"],[0.4444444444444444,"#bd3786"],[0.5555555555555556,"#d8576b"],[0.6666666666666666,"#ed7953"],[0.7777777777777778,"#fb9f3a"],[0.8888888888888888,"#fdca26"],[1.0,"#f0f921"]],"type":"surface"}],"table":[{"cells":{"fill":{"color":"#EBF0F8"},"line":{"color":"white"}},"header":{"fill":{"color":"#C8D4E3"},"line":{"color":"white"}},"type":"table"}]},"layout":{"annotationdefaults":{"arrowcolor":"#2a3f5f","arrowhead":0,"arrowwidth":1},"autotypenumbers":"strict","coloraxis":{"colorbar":{"outlinewidth":0,"ticks":""}},"colorscale":{"diverging":[[0,"#8e0152"],[0.1,"#c51b7d"],[0.2,"#de77ae"],[0.3,"#f1b6da"],[0.4,"#fde0ef"],[0.5,"#f7f7f7"],[0.6,"#e6f5d0"],[0.7,"#b8e186"],[0.8,"#7fbc41"],[0.9,"#4d9221"],[1,"#276419"]],"sequential":[[0.0,"#0d0887"],[0.1111111111111111,"#46039f"],[0.2222222222222222,"#7201a8"],[0.3333333333333333,"#9c179e"],[0.4444444444444444,"#bd3786"],[0.5555555555555556,"#d8576b"],[0.6666666666666666,"#ed7953"],[0.7777777777777778,"#fb9f3a"],[0.8888888888888888,"#fdca26"],[1.0,"#f0f921"]],"sequentialminus":[[0.0,"#0d0887"],[0.1111111111111111,"#46039f"],[0.2222222222222222,"#7201a8"],[0.3333333333333333,"#9c179e"],[0.4444444444444444,"#bd3786"],[0.5555555555555556,"#d8576b"],[0.6666666666666666,"#ed7953"],[0.7777777777777778,"#fb9f3a"],[0.8888888888888888,"#fdca26"],[1.0,"#f0f921"]]},"colorway":["#636efa","#EF553B","#00cc96","#ab63fa","#FFA15A","#19d3f3","#FF6692","#B6E880","#FF97FF","#FECB52"],"font":{"color":"#2a3f5f"},"geo":{"bgcolor":"white","lakecolor":"white","landcolor":"white","showlakes":true,"showland":true,"subunitcolor":"#C8D4E3"},"hoverlabel":{"align":"left"},"hovermode":"closest","paper_bgcolor":"white","plot_bgcolor":"white","polar":{"angularaxis":{"gridcolor":"#EBF0F8","linecolor":"#EBF0F8","ticks":""},"bgcolor":"white","radialaxis":{"gridcolor":"#EBF0F8","linecolor":"#EBF0F8","ticks":""}},"scene":{"xaxis":{"backgroundcolor":"white","gridcolor":"#DFE8F3","gridwidth":2,"linecolor":"#EBF0F8","showbackground":true,"ticks":"","zerolinecolor":"#EBF0F8"},"yaxis":{"backgroundcolor":"white","gridcolor":"#DFE8F3","gridwidth":2,"linecolor":"#EBF0F8","showbackground":true,"ticks":"","zerolinecolor":"#EBF0F8"},"zaxis":{"backgroundcolor":"white","gridcolor":"#DFE8F3","gridwidth":2,"linecolor":"#EBF0F8","showbackground":true,"ticks":"","zerolinecolor":"#EBF0F8"}},"shapedefaults":{"line":{"color":"#2a3f5f"}},"ternary":{"aaxis":{"gridcolor":"#DFE8F3","linecolor":"#A2B1C6","ticks":""},"baxis":{"gridcolor":"#DFE8F3","linecolor":"#A2B1C6","ticks":""},"bgcolor":"white","caxis":{"gridcolor":"#DFE8F3","linecolor":"#A2B1C6","ticks":""}},"title":{"x":0.05},"xaxis":{"automargin":true,"gridcolor":"#EBF0F8","linecolor":"#EBF0F8","ticks":"","title":{"standoff":15},"zerolinecolor":"#EBF0F8","zerolinewidth":2},"yaxis":{"automargin":true,"gridcolor":"#EBF0F8","linecolor":"#EBF0F8","ticks":"","title":{"standoff":15},"zerolinecolor":"#EBF0F8","zerolinewidth":2}}},"xaxis":{"anchor":"y","domain":[0.0,1.0],"matches":"x2","showticklabels":false},"yaxis":{"anchor":"x","domain":[0.625,1.0]},"xaxis2":{"anchor":"y2","domain":[0.0,1.0]},"yaxis2":{"anchor":"x2","domain":[0.0,0.375]},"annotations":[{"font":{"size":16},"showarrow":false,"text":"masa (kg)","x":0.5,"xanchor":"center","xref":"paper","y":1.0,"yanchor":"bottom","yref":"paper"},{"font":{"size":16},"showarrow":false,"text":"tension (MPa)","x":0.5,"xanchor":"center","xref":"paper","y":0.375,"yanchor":"bottom","yref":"paper"}],"shapes":[{"line":{"color":"red","dash":"dash"},"type":"line","x0":0,"x1":1,"xref":"x2 domain","y0":215.0,"y1":215.0,"yref":"y2"}],"title":{"text":"Evolucion de la pieza (pasar el raton por cada punto)"},"height":800},                        {"responsive": true}                    )                };            </script>        </div>
 </body>
 </html>

diff --git a/README.md b/README.md
@@ -6,7 +6,7 @@ La pieza parte del **0.stp del enunciado** y se modifica paso a paso: en cada it
 
 | iteraciones | aceptadas | inversiones | rechazadas | sin cambio | descartadas en la evaluacion rapida |
 |---|---|---|---|---|---|
-| 15 | 8 | 0 | 7 | 0 | 21 |
+| 16 | 8 | 0 | 7 | 1 | 21 |
 
 ## Mejor diseno
 
@@ -39,6 +39,7 @@ Grafico interactivo: [evolucion_interactiva.html](runs/opt_42258N/evolucion_inte
 
 | iteracion | decision | regla | modificacion | resultado | motivo |
 |---|---|---|---|---|---|
+| 16 | SIN CAMBIO | - | - | - | ninguna regla encuentra ya una modificacion posible (no queda material ocioso donde quepa  |
 | 15 | RECHAZADA | R4 | collar de 9 mm en los pernos 3 y 1 | 2.364 kg, 207 MPa | no cumple: 207.4 MPa con la malla normal, que corregidos a malla fina (x1.077) son 223.4 M |
 | 14 | RECHAZADA | R3 | hueco interior 12 x 20 x 8 mm (techo a 45 grados + evacuacion D5) en ( | 2.282 kg, 202 MPa | no cumple: 202.3 MPa con la malla normal, que corregidos a malla fina (x1.077) son 217.9 M |
 | 13 | RECHAZADA | R1 | aligeramiento pasante vertical D8 mm en (40, -59) (y su simetrico) | 2.268 kg, 209 MPa | no cumple: 209.4 MPa con la malla normal, que corregidos a malla fina (x1.077) son 225.5 M |
@@ -50,7 +51,6 @@ Grafico interactivo: [evolucion_interactiva.html](runs/opt_42258N/evolucion_inte
 | 7 | ACEPTADA | R1 | aligeramiento pasante vertical D10 mm en (28, -74) (y su simetrico) | 2.335 kg, 196 MPa | cumple y mejora al mejor (puntuacion 2.3552 -> 2.3349; masa 2.3552 -> 2.3349 kg) |
 | 6 | ACEPTADA | R1 | aligeramiento pasante vertical D16 mm en (-26, -29) (y su simetrico) | 2.355 kg, 197 MPa | cumple y mejora al mejor (puntuacion 2.3827 -> 2.3552; masa 2.3827 -> 2.3552 kg) |
 | 5 | ACEPTADA | R1 | aligeramiento pasante vertical D16 mm en (64, -32) (y su simetrico) | 2.383 kg, 197 MPa | cumple y mejora al mejor (puntuacion 2.3989 -> 2.3827; masa 2.3989 -> 2.3827 kg) |
-| 4 | ACEPTADA | R1 | aligeramiento pasante vertical D12 mm en (4, -74) (y su simetrico) | 2.399 kg, 206 MPa | cumple y mejora al mejor (puntuacion 2.4281 -> 2.3989; masa 2.4281 -> 2.3989 kg) |
 
 ---
 

diff --git a/runs/opt_42258N/ITERACIONES.md b/runs/opt_42258N/ITERACIONES.md
@@ -2,6 +2,13 @@
 
 Carga 42258 N | limite 215 MPa (coef. de seguridad >= 1.00) y 0.25 mm | reglas: [DESIGN_RULES.md](../../DESIGN_RULES.md) | la mas reciente arriba
 
+## Iteracion 16 - SIN CAMBIO
+
+*2026-11-24 11:26*
+
+- **Pieza de partida:** 2.2925 kg | 199.3 MPa | CS 1.08 | 0.146 mm
+- **Decision:** SIN CAMBIO - ninguna regla encuentra ya una modificacion posible (no queda material ocioso donde quepa un corte y el pico no admite refuerzo)
+
 ## Iteracion 15 - RECHAZADA: R4 collar de 9 mm en los pernos 3 y 1
 
 *2026-11-24 11:24*
